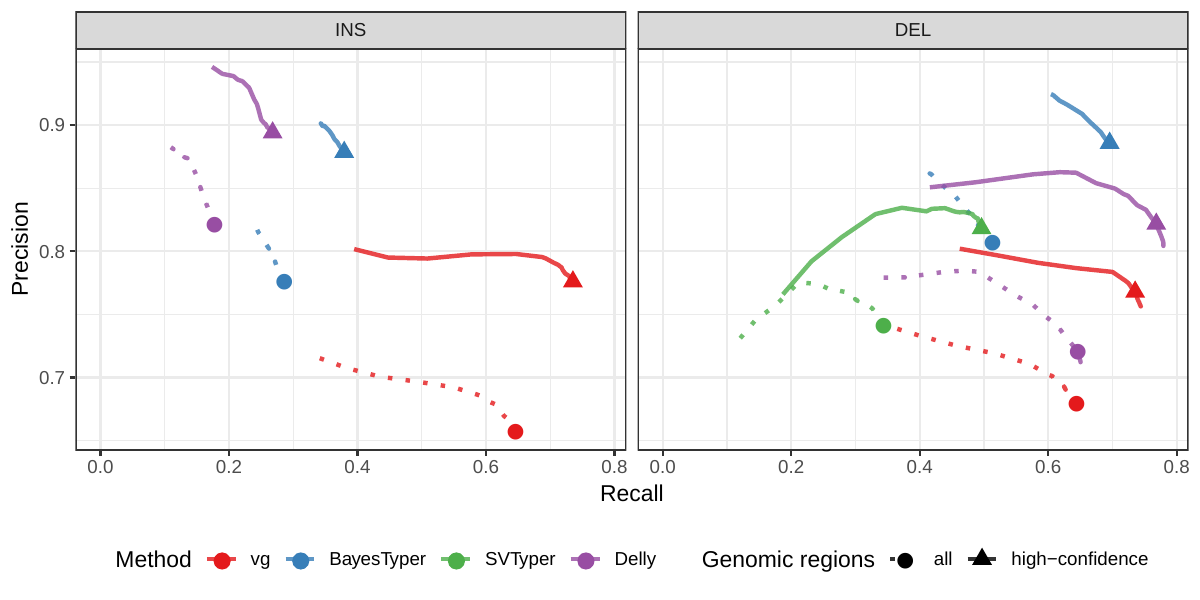
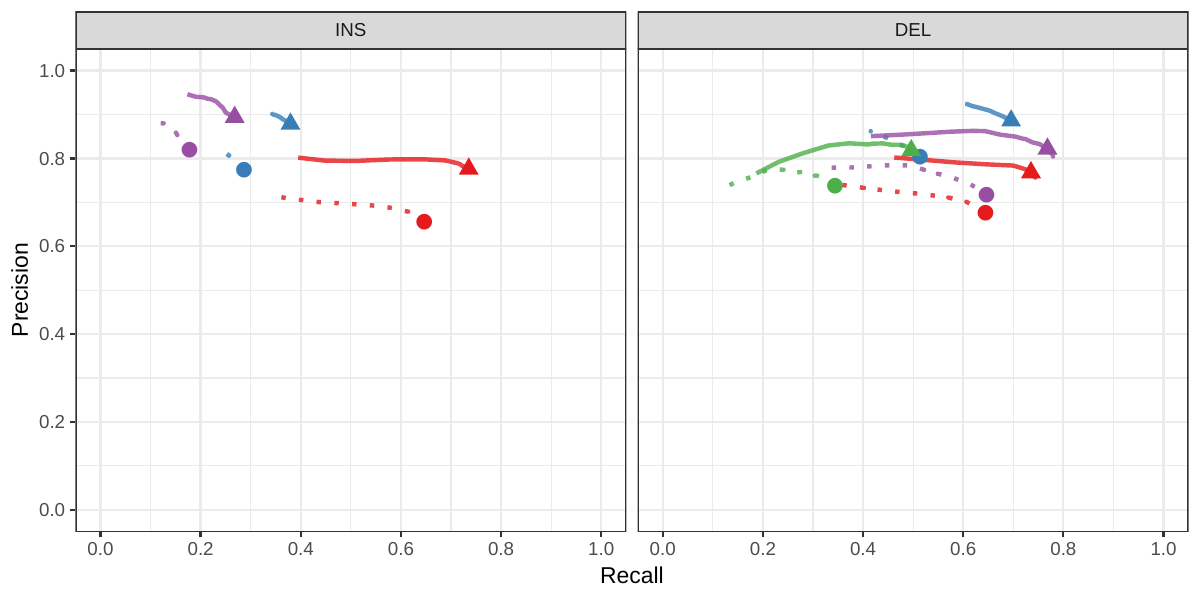
square PR curves with zoom when necessary

diff --git a/content/06.suppmaterial.md b/content/06.suppmaterial.md
@@ -122,9 +122,15 @@ In all cases, the errors affected 1-10 bp.
 
 ### Supplementary Figures
 
-![**Genotyping evaluation on the HGSVC dataset using simulated reads.**](images/hgsvc-sim-geno.png){#fig:hgsvc-sim-geno tag="S1"}
+![**Genotyping evaluation on the HGSVC dataset using simulated reads.**
+Reads were simulated from the HG00514 individual.
+The bottom panel zooms on the part highlighted by a dotted rectangle.
+](images/hgsvc-sim-geno.png){#fig:hgsvc-sim-geno tag="S1"}
 
-![**Calling evaluation on the HGSVC dataset using simulated reads.**](images/hgsvc-sim.png){#fig:hgsvc-sim tag="S2"}
+![**Calling evaluation on the HGSVC dataset using simulated reads.**
+Reads were simulated from the HG00514 individual.
+The bottom panel zooms on the part highlighted by a dotted rectangle.
+](images/hgsvc-sim.png){#fig:hgsvc-sim tag="S2"}
 
 ![**Genotyping evaluation on the HGSVC dataset using real reads.** Combined results across the HG00514, HG00733 and NA19240.](images/hgsvc-real-geno.png){#fig:hgsvc-real-geno tag="S3"}
 
@@ -134,7 +140,10 @@ In all cases, the errors affected 1-10 bp.
 
 ![**Calling evaluation on the Genome in a Bottle dataset.** Calls on HG002 were compared to the high-quality SVs from this same individual.](images/giab5.png){#fig:giab tag="S6"}
 
-![**Genotyping evaluation on the CHM pseudo-diploid dataset.** The pseudo-diploid genome was built from CHM cell lines and used to train SMRT-SV v2 in Audano et al.[@tag:audano2019]](images/chmpd-geno.png){#fig:chmpd-geno tag="S7"}
+![**Genotyping evaluation on the CHM pseudo-diploid dataset.** 
+The pseudo-diploid genome was built from CHM cell lines and used to train SMRT-SV v2 in Audano et al.[@tag:audano2019]
+The bottom panel zooms on the part highlighted by a dotted rectangle.
+](images/chmpd-geno.png){#fig:chmpd-geno tag="S7"}
 
 ![**Calling evaluation on the CHM pseudo-diploid dataset.** The pseudo-diploid genome was built from CHM cell lines and used to train SMRT-SV v2 in Audano et al.[@tag:audano2019]](images/chmpd.png){#fig:chmpd tag="S8"}
 
